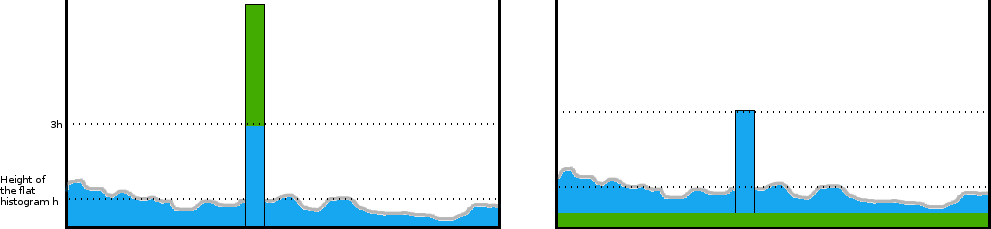
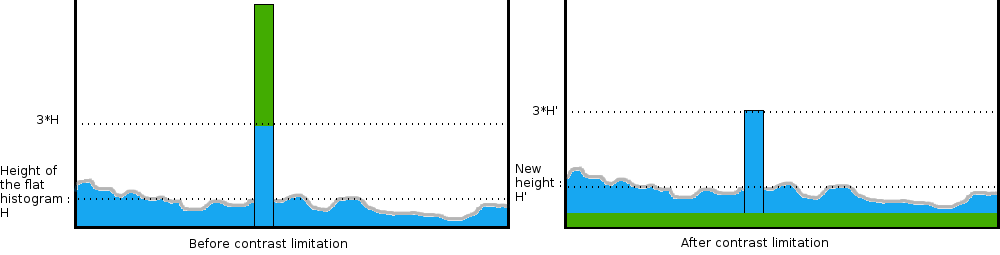
DOC: recipe on the cookbook

Changed region(s): [[0.0, 0.0, 1.0, 1.0], [0.9082, 0.4279, 0.9687, 0.4585]]

diff --git a/Documentation/Cookbook/rst/recipes/contrast_enhancement.rst b/Documentation/Cookbook/rst/recipes/contrast_enhancement.rst
@@ -8,21 +8,28 @@ The contrast enhancement application is aiming at reducing this dynamic
 by compressing it in a smarter way than just linear compression.
 In a linear compression, compression changes the dynamic range (for instance
 from 12 to 8 bits) but does not change the repartition of the pixel.
+
 |image1| |image2|
 
-.. |image1| image:: ../Art/contrast1.png
-
-.. |image2| image:: ../Art/contrast2.png
-
 Here the equalization of histogram is creating a look up table in order to
-maximize the use of dynamics.
+maximize the use of dynamics. The target histogram is perfectly flat one.
+The gain applied on each pixel comes from the computation of the transfer
+function :math:`T` such that :
 
-..image::../Art/contrast3.png
+.. math:: \forall i \quad  \int_{min}^{i*T(i)}h_{istogram}(j)dj = 
+          \int_{min}^{i}h_{target}(j)dj
+
+where :math:`h_{target}` is the corresponding flat histogram and we have
+the constraint that white and black are still white and black after
+equalization : 
+
+.. math:: T(min) = T(max) = 1
 
 With this in mind you can then try it on your own images with the simple
 following use :
 
-::
+:: 
+
     otbcli_ContrastEnhancement -in input_image.tif 
                                -out output_image.tif 
                                -spatial global
@@ -46,10 +53,11 @@ computed over those tiles. Gain will be interpolated between the adjacent
 tiles in order to give a smooth result.
 
 ::
-    otbcli_ContrastEnhancement -in input_image.tif 
-                               -out output_image.tif 
-                               -spatial.local.h 500 
-                               -spatial.local.w 500 
+
+    otbcli_ContrastEnhancement -in input_image.tif
+                               -out output_image.tif
+                               -spatial.local.h 500
+                               -spatial.local.w 500
                                -mode lum
 
 The application also offers a way to limit contrast by adjusting original
@@ -58,9 +66,19 @@ any bucket of the histogram : we compute the height of the perfect flat
 histogram and the maximal height is the limitation factor time this "flat
 height".
 
-..image::../Art/contrast4.png
+|image4|
 
 Finally you have the choice to ignore a particular value with the "nodata"
 parameter, and also the choice to put manually your minimum and maximum value.
 Any value out of bound will be ignored.
 
+.. |image1| image:: ../Art/contrast1.png
+            :scale: 30%
+
+.. |image2| image:: ../Art/contrast2.png
+            :scale: 30%
+
+.. |image3| image:: ../Art/contrast3.png
+            :scale: 40%
+
+.. |image4| image:: ../Art/contrast4.png

diff --git a/Documentation/Cookbook/rst/Recipes.rst b/Documentation/Cookbook/rst/Recipes.rst
@@ -17,3 +17,4 @@ and demonstrate how the can be applied.
    recipes/featextract.rst
    recipes/stereo.rst
    recipes/bandmathx.rst
+   recipes/contrast_enhancement.rst
